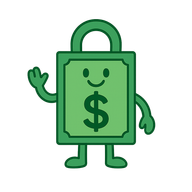
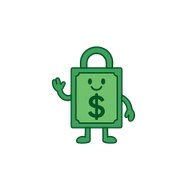
changes

Changed region(s): [[0.125, 0.0938, 0.8125, 0.9062]]

diff --git a/scripts/generate-pwa-icons.js b/scripts/generate-pwa-icons.js
@@ -14,11 +14,20 @@ if (!existsSync(mascot)) {
 }
 
 const sizes = [192, 512];
+const mascotScale = 0.65; // Mascot fills 65% of frame, leaving space around
 
 await Promise.all(
   sizes.map(async (size) => {
     const out = join(publicDir, `icon-${size}.png`);
-    await sharp(mascot).resize(size, size).png().toFile(out);
+    const inner = Math.round(size * mascotScale);
+    const offset = Math.round((size - inner) / 2);
+    const resizedMascot = await sharp(mascot).resize(inner, inner).toBuffer();
+    await sharp({
+      create: { width: size, height: size, channels: 4, background: { r: 255, g: 255, b: 255, alpha: 1 } },
+    })
+      .composite([{ input: resizedMascot, top: offset, left: offset }])
+      .png()
+      .toFile(out);
     console.log(`Generated ${out}`);
   })
 );
